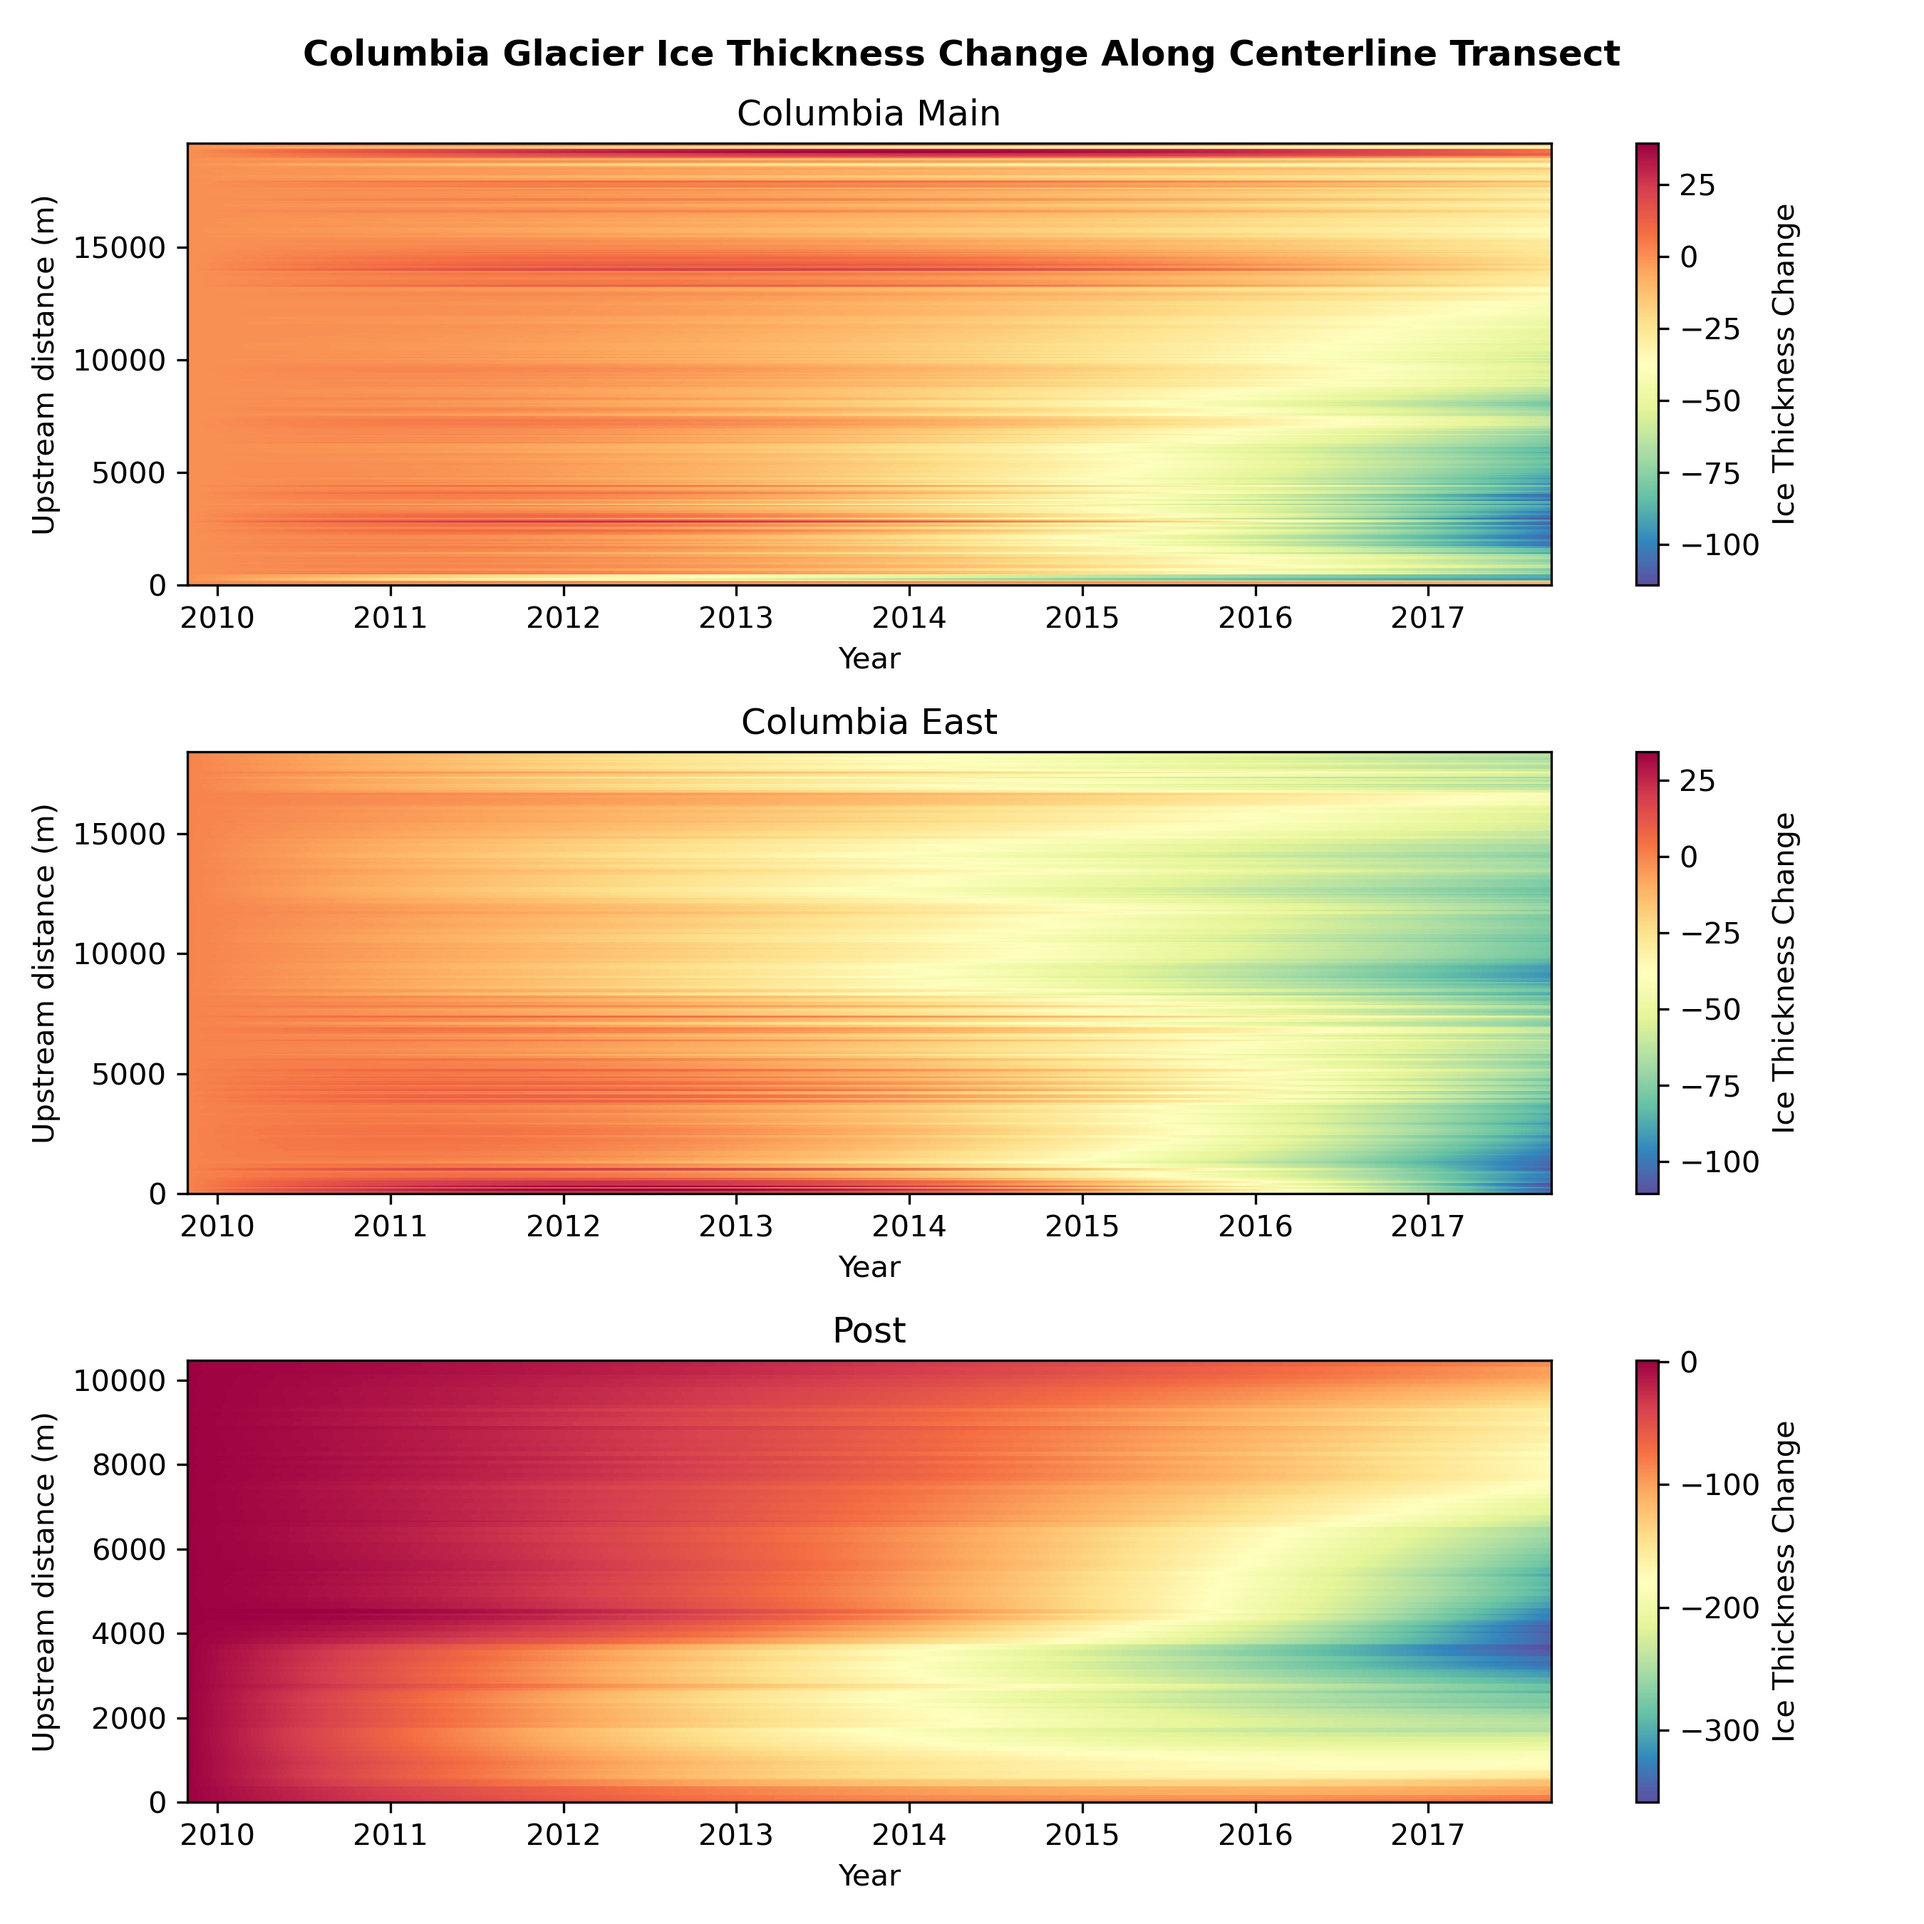
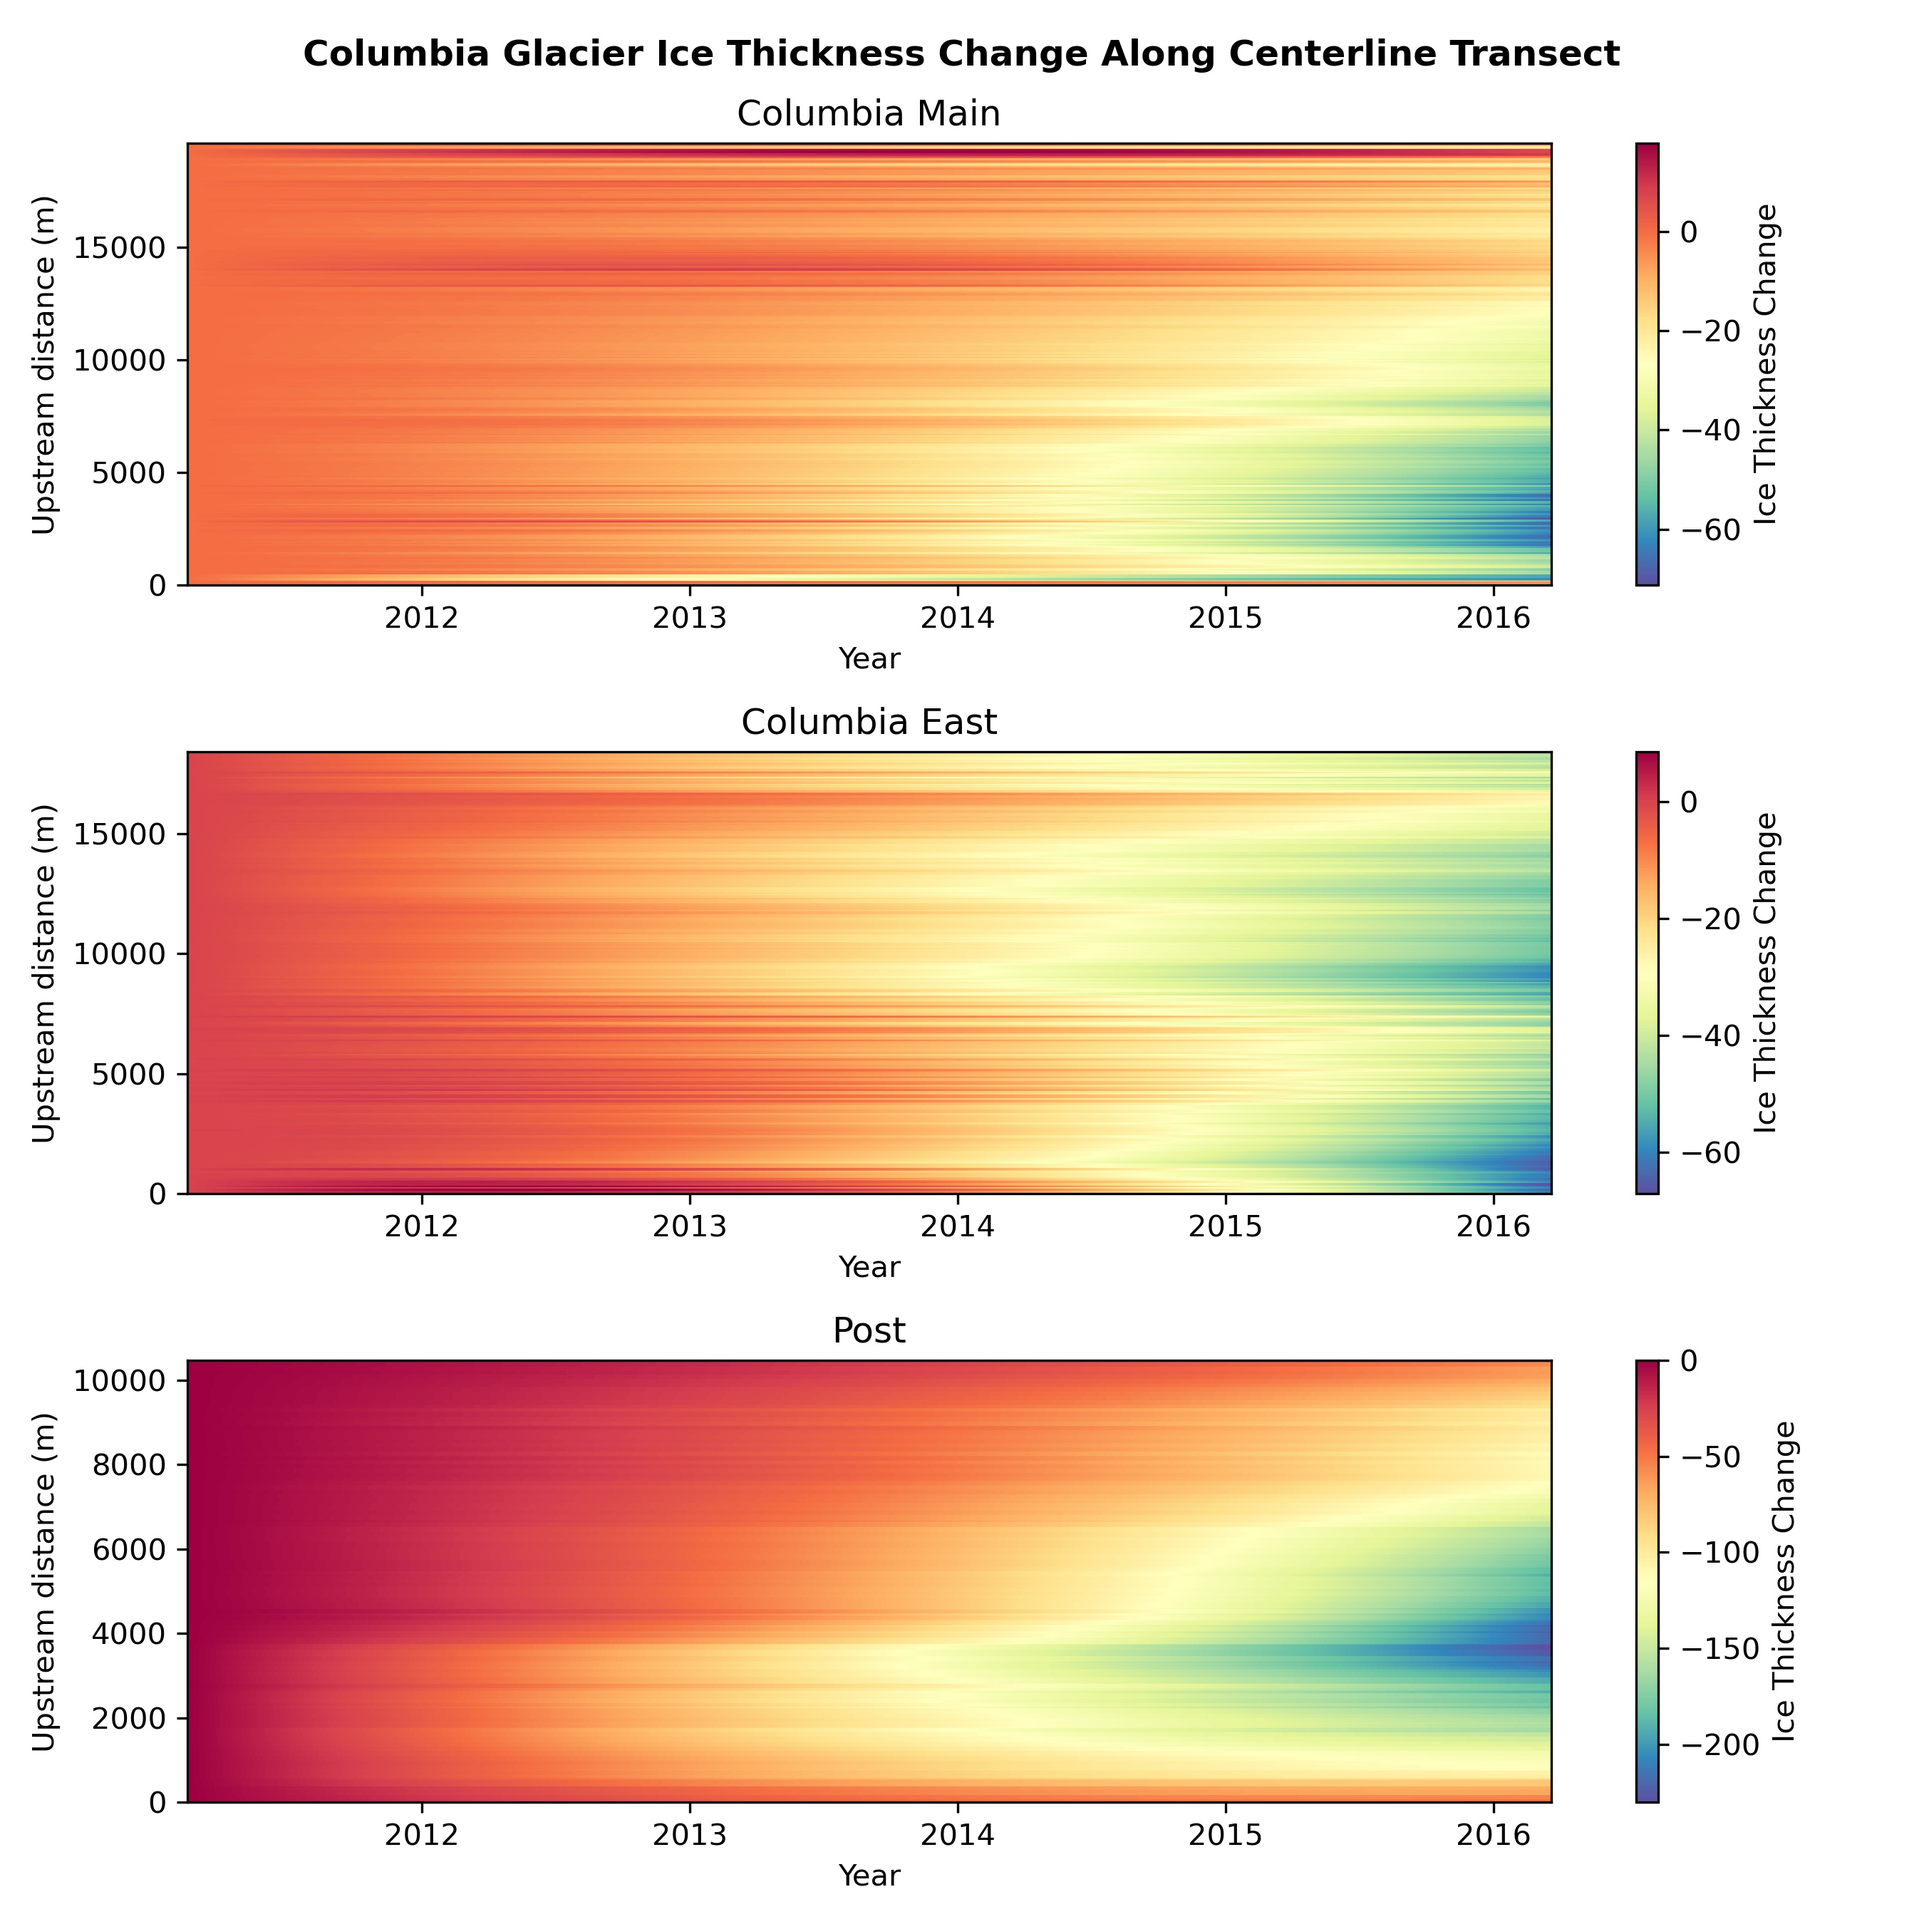
Modify dem & ice thickness model tdec range

diff --git a/src/analysis/ice_thickness.py b/src/analysis/ice_thickness.py
@@ -123,6 +123,7 @@ def build_design_matrix(t):
 
 def model_ice_thickness_tseries(raw_stack):
     t = raw_stack.tdec
+    v_stack = ice.Stack('..' + V_STACKFILE)
 
     # Interpolate Array
     data = raw_stack._datasets['data']
@@ -140,7 +141,7 @@ def model_ice_thickness_tseries(raw_stack):
         tseries.append(data[:, i, j])
 
     # Build smooth time
-    st = ice.generateRegularTimeArray(min(t), max(t))
+    st = ice.generateRegularTimeArray(min(v_stack.tdec), max(v_stack.tdec))
     model = np.full((len(st), Ny, Nx), np.nan)
 
     print('Building model...')

diff --git a/src/analysis/dem.py b/src/analysis/dem.py
@@ -42,7 +42,7 @@ def model_dem_tseries():
     tseries = [data[:, i, j] for i, j in coords]
 
     # Build smooth time
-    st = ice.generateRegularTimeArray(min(t), max(t))
+    st = ice.generateRegularTimeArray(min(v_stack.tdec), max(v_stack.tdec))
     model = np.full((len(st), Ny, Nx), np.nan)
 
     print('Building model...')
